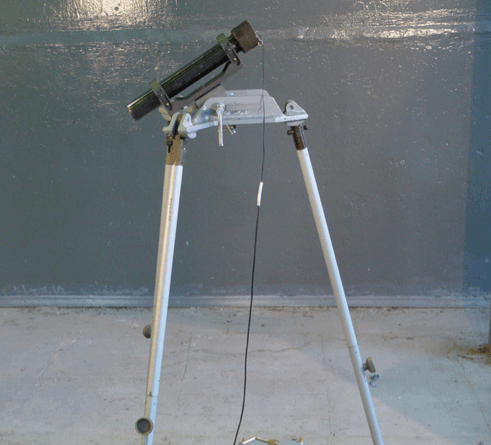
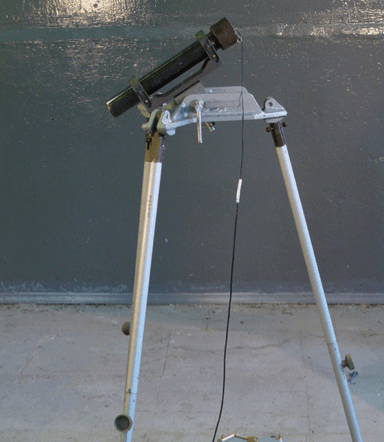
fix: Исправления в размерах изображений некоторых позиций

diff --git a/src/components/Common/ImageSlider.vue b/src/components/Common/ImageSlider.vue
@@ -129,13 +129,17 @@ const showFullImage = function () {
       position: absolute;
       transform: translateY(-50%);
       overflow: hidden;
-      width: 90%;
+      width: 90vw;
+      height: 90vh;
+      display: flex;
+      align-items: center;
+      justify-content: center;
     }
     &-image {
-      border-radius: 8px;
       max-width: 100%;
       max-height: 100%;
-      // width: 100%;
+      width: 100%;
+      object-fit: contain;
     }
     &-closebtn {
       position: absolute;

diff --git a/src/components/Catalogue/CatalogueItemTypeETC11M.vue b/src/components/Catalogue/CatalogueItemTypeETC11M.vue
@@ -1,9 +1,7 @@
 <template>
   <div class="catalogue__item catalogue__item--type-2">
     <div class="content__wrapper">
-      <div class="col-xs-12">
-        <ImageSlider :images="images" />
-      </div>
+      <ImageSlider :images="images" />
       <div class="catalogue__content">
         <div class="catalogue__title">
           {{ title }}

diff --git a/src/components/Catalogue/CatalogueContainer.vue b/src/components/Catalogue/CatalogueContainer.vue
@@ -379,7 +379,7 @@ export default defineComponent({
             value: 'от -25<br/>до +40',
           },
         ],
-        imageSrc: ['etcv-14mk/etcv-14mk-1.png', 'etcv-14mk/etcv-14mk-2.png'],
+        imageSrc: ['etcv-14mk/etcv-14mk-2.png', 'etcv-14mk/etcv-14mk-1.png'],
       },
       etcv1200400: {
         title:

diff --git a/src/App.vue b/src/App.vue
@@ -44,7 +44,6 @@ body {
 
   &-paragraph {
     line-height: 2em;
-    margin-top: 0.6em;
     text-align: justify;
     &::first-letter {
       margin-left: 1em;
